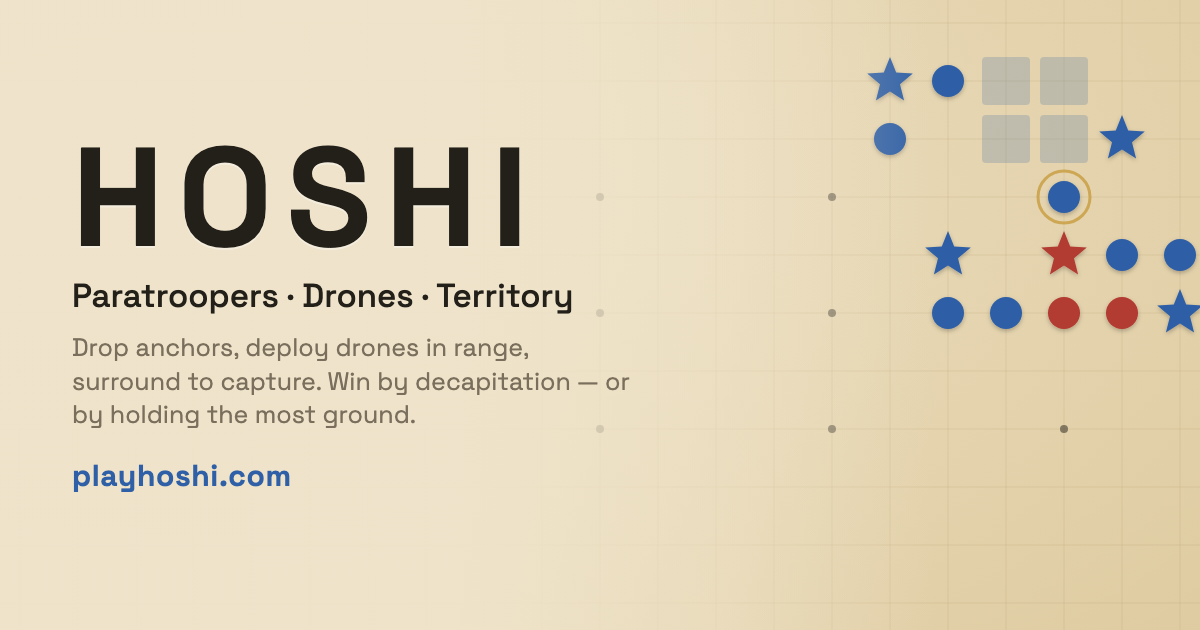
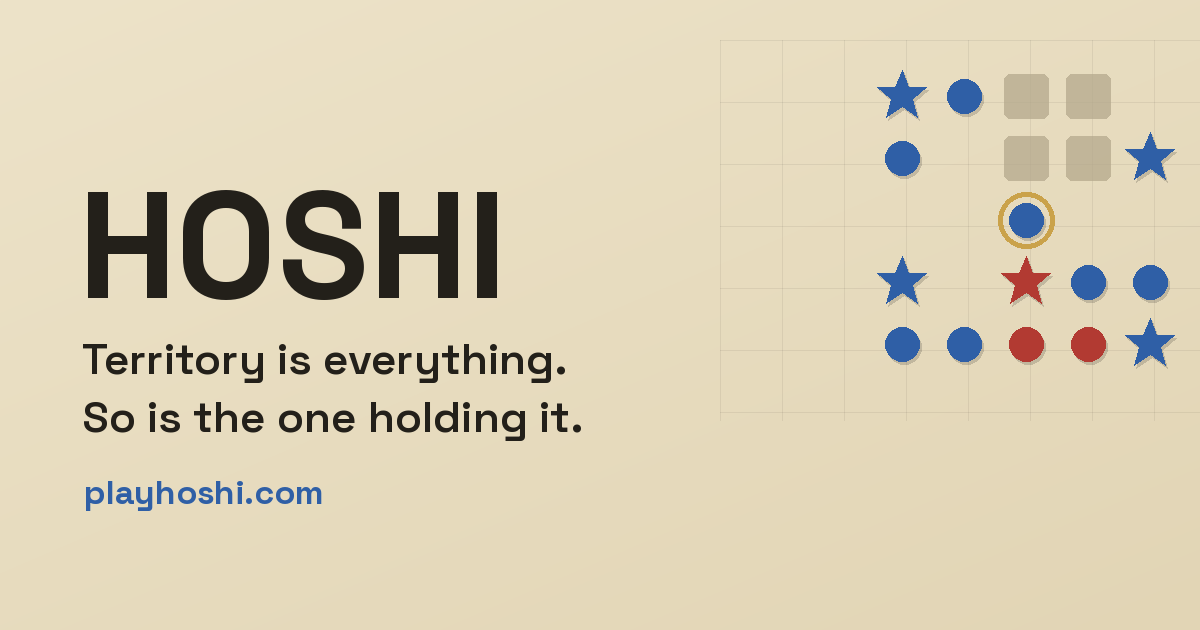
Refresh OG image + share text to the new "Territory is everything" branding
- Regenerated og.png (1200×630, Space Grotesk, board motif) featuring the new
  hero tagline instead of the old subtitle.
- Updated og/twitter description to match the landing voice.
- Cache-bust ?v=2 on the image URL so platforms re-scrape.

diff --git a/web/hoshi.html b/web/hoshi.html
@@ -13,14 +13,14 @@
 <meta property="og:type" content="website">
 <meta property="og:url" content="https://playhoshi.com/">
 <meta property="og:title" content="HOSHI — paratroopers, drones, territory">
-<meta property="og:description" content="Drop anchors, deploy drones in range, surround to capture. Win by decapitation — or by holding the most ground. Play free in your browser.">
-<meta property="og:image" content="https://playhoshi.com/og.png">
+<meta property="og:description" content="Territory is everything. So is the one holding it. Drop anchors, spread drones, win two ways — hold the most ground, or capture the enemy. Free in your browser, vs a bot or a friend.">
+<meta property="og:image" content="https://playhoshi.com/og.png?v=2">
 <meta property="og:image:width" content="1200">
 <meta property="og:image:height" content="630">
 <meta name="twitter:card" content="summary_large_image">
 <meta name="twitter:title" content="HOSHI — paratroopers, drones, territory">
-<meta name="twitter:description" content="Drop anchors, deploy drones in range, surround to capture. Play free in your browser.">
-<meta name="twitter:image" content="https://playhoshi.com/og.png">
+<meta name="twitter:description" content="Territory is everything. So is the one holding it. Win two ways — hold the most ground, or capture the enemy. Free in your browser, vs a bot or a friend.">
+<meta name="twitter:image" content="https://playhoshi.com/og.png?v=2">
 <link rel="preconnect" href="https://fonts.googleapis.com">
 <link href="https://fonts.googleapis.com/css2?family=Space+Grotesk:wght@400;500;700&display=swap" rel="stylesheet">
 <style>
